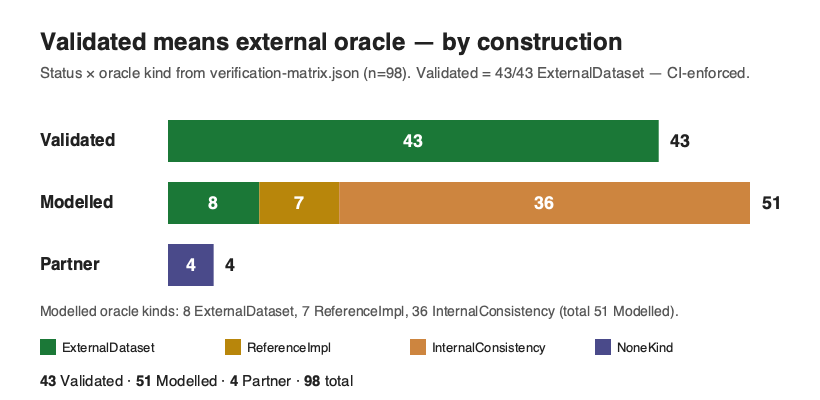
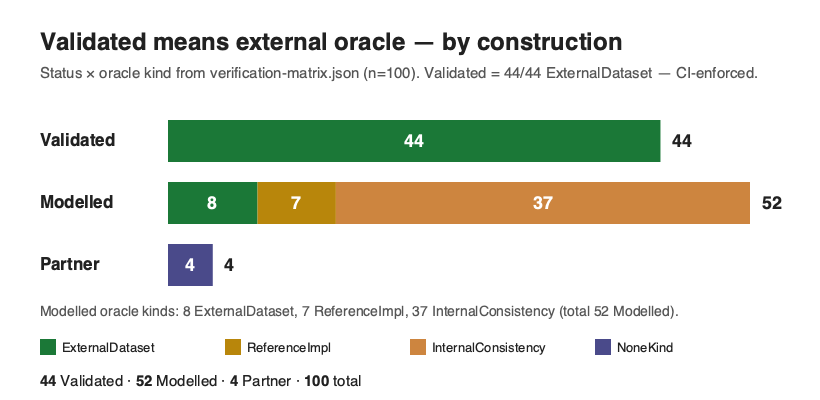
feat(verification): P3 common-mode integrity rows + doc-sync (matrix 44/52/4/100)
Adds the two P3 rows to the verification matrix: 1 Validated (real inter-ephemeris
common-mode error is ARAIM-blind, ExternalDataset) + 1 Modelled (CMPL bound + integrity
envelope, InternalConsistency). Matrix 43/51/4/98 -> 44/52/4/100. Regenerated the ledger
JSON, VERIFICATION-MATRIX.md, MODELLED-RATIONALE.md and both figures; updated all four
README count strings and corrected a stale 'Full 75-row matrix' link label to 100.

diff --git a/src/verification.rs b/src/verification.rs
@@ -834,6 +834,24 @@ pub fn verification_matrix() -> Vec<VerificationItem> {
             oracle_kind: InternalConsistency,
             status: Modelled,
         },
+        VerificationItem {
+            requirement: "Common-mode (frame/ephemeris) integrity: the fault class RAIM/ARAIM is provably blind to",
+            capability: "common_mode_split decomposes a measurement error into the RAIM-invisible part in range(G) (absorbed as a user position+clock error, zero parity residual) and the RAIM-detectable parity residual; on the real DE440/INPOP21a/EPM2021 geocentric-Moon disagreement mapped through a modelled constellation, the ~2.0-2.4 m inter-ephemeris floor is absorbed as user position error with a structurally-zero parity residual — undetectable by any snapshot RAIM/ARAIM monitor",
+            module: "lunar_common_mode",
+            tests: "tests/lunar_common_mode_integrity_reference.rs (blind_dx / blind_fraction / detectable_norm / blind_norm for 732 records = 2 provider pairs x 366 real epochs, reproduced against an independent numpy parity-projection / least-squares computation to rel<1e-3 abs<1e-3; inputs byte-consistent via scripts/gen_common_mode_ref.py reusing the real inter-ephemeris fixtures)",
+            oracle: "Independent numpy least-squares / parity-projection computation cross-checking the engine's split, on the REAL DE440 (JPL) / INPOP21a (IMCCE) / EPM2021 (IAA RAS) inter-ephemeris disagreement (tests/fixtures/inter_ephemeris). Note: the constellation geometry is Modelled; only the linear-algebra reproduction on real-data inputs is externally checked",
+            oracle_kind: ExternalDataset,
+            status: Validated,
+        },
+        VerificationItem {
+            requirement: "Common-mode protection level (CMPL) and total integrity envelope",
+            capability: "cmpl_horizontal bounds the k-sigma horizontal position error from the blind common-mode class (blind_position_covariance = S*Cov*S^T projected into ENU); integrity_envelope reports hpl_total = hpl_araim + cmpl, making explicit that the ARAIM protection level bounds only the parity-detectable fault class and provably does not cover the common-mode class",
+            module: "lunar_common_mode",
+            tests: "lunar_common_mode::tests (a pure range(G) covariance gives a positive CMPL; a parity-space covariance gives ~zero CMPL; envelope sums the two disjoint classes; state_map consistency)",
+            oracle: "Analytic projector algebra; the common-mode covariance, constellation geometry, and k are representative Modelled inputs, not a certified budget",
+            oracle_kind: InternalConsistency,
+            status: Modelled,
+        },
         // ── Resilience scoring & instability study ────────────────────────────
         VerificationItem {
             requirement: "PNT-resilience framework-aligned scoring",

diff --git a/docs/VERIFICATION-MATRIX.md b/docs/VERIFICATION-MATRIX.md
@@ -2,7 +2,7 @@
 
 <!-- Generated by `cargo run --bin gen_validation_artifacts` from src/verification.rs; pinned by tests/verification_artifacts_doc_sync.rs. Do not edit by hand. -->
 
-The complete, machine-checked evidence ledger: **98 rows — 43 VALIDATED, 51 MODELLED, 4 PARTNER**. A row may be VALIDATED only with an independent external oracle (the matrix invariant tests enforce this). The same data, with clickable per-row links to each test, module and committed fixture, is the *Validation ledger* on https://kshana.dev. See [MODELLED-RATIONALE.md](MODELLED-RATIONALE.md) for why each Modelled row is not externally validated.
+The complete, machine-checked evidence ledger: **100 rows — 44 VALIDATED, 52 MODELLED, 4 PARTNER**. A row may be VALIDATED only with an independent external oracle (the matrix invariant tests enforce this). The same data, with clickable per-row links to each test, module and committed fixture, is the *Validation ledger* on https://kshana.dev. See [MODELLED-RATIONALE.md](MODELLED-RATIONALE.md) for why each Modelled row is not externally validated.
 
 | Requirement | Capability | Module | Tests | Oracle | Status |
 |---|---|---|---|---|---|
@@ -86,6 +86,8 @@ The complete, machine-checked evidence ledger: **98 rows — 43 VALIDATED, 51 MO
 | Cross-provider lunar frame/dynamics consistency (real inter-ephemeris) | rotation-only (6-parameter translation+rotation) decomposition of the DE440/INPOP21a/EPM2021 geocentric-Moon disagreement into a reducible common ICRF frame-tie and an irreducible lunar-orbit-orientation excess (the full 7-parameter Helmert fit is a separate public function covered only by an internal analytic-recovery unit test, not by this external check) | lunar_interop_budget | tests/lunar_interop_budget_reference.rs (raw / rotation-residual / theta_moon / theta_frametie / theta_excess / reducible / irreducible for 3 provider pairs vs the independent SciPy SVD lstsq fit in tests/fixtures/inter_ephemeris/reference.json, rel<1e-3 abs<1e-3 m; fixtures + oracle byte-consistent via scripts/gen_interop_ref.py on public DE440/INPOP21a/EPM2021 kernels through IMCCE calceph) | Three independent authoritative ephemerides — DE440 (JPL), INPOP21a (IMCCE), EPM2021 (IAA RAS) — sampled via IMCCE calceph, cross-checked by an independent numpy SVD least-squares fit | VALIDATED |
 | Cross-provider consistency tolerance for a mixed-provider user | consistency_tolerance: inverts a user position budget to a per-parameter inter-provider Helmert agreement requirement (origin/scale/rotation) at a reference lever arm, optionally inflated by the P1 single-provider realization CRLB | lunar_interop_budget | lunar_interop_budget::tests (monotonicity in budget; RSS budget reduction under a per-provider CRLB; worked rotation tolerance at the lunar lever arm; binding-term = rotation) | Worst-case triangle bound on the Helmert point-Jacobian action (closed form) | MODELLED |
 | Multi-provider lunar interoperability error budget and frame-vs-ephemeris design law | interop_budget: reducible (common frame-tie) vs irreducible (dynamics) split under PerProvider / CommonFrameTie / CommonEphemeris conventions, with the irreducible-fraction design-law metric (~0.69 on real DE440/INPOP/EPM: a common frame tag alone leaves the dominant floor) | lunar_interop_budget | lunar_interop_budget::tests (CommonEphemeris zeroes the budget; CommonFrameTie < PerProvider; irreducible_fraction > 0.5 on the real splits; convention ordering) | RMS aggregation of the Validated per-pair splits under each convention (closed form) | MODELLED |
+| Common-mode (frame/ephemeris) integrity: the fault class RAIM/ARAIM is provably blind to | common_mode_split decomposes a measurement error into the RAIM-invisible part in range(G) (absorbed as a user position+clock error, zero parity residual) and the RAIM-detectable parity residual; on the real DE440/INPOP21a/EPM2021 geocentric-Moon disagreement mapped through a modelled constellation, the ~2.0-2.4 m inter-ephemeris floor is absorbed as user position error with a structurally-zero parity residual — undetectable by any snapshot RAIM/ARAIM monitor | lunar_common_mode | tests/lunar_common_mode_integrity_reference.rs (blind_dx / blind_fraction / detectable_norm / blind_norm for 732 records = 2 provider pairs x 366 real epochs, reproduced against an independent numpy parity-projection / least-squares computation to rel<1e-3 abs<1e-3; inputs byte-consistent via scripts/gen_common_mode_ref.py reusing the real inter-ephemeris fixtures) | Independent numpy least-squares / parity-projection computation cross-checking the engine's split, on the REAL DE440 (JPL) / INPOP21a (IMCCE) / EPM2021 (IAA RAS) inter-ephemeris disagreement (tests/fixtures/inter_ephemeris). Note: the constellation geometry is Modelled; only the linear-algebra reproduction on real-data inputs is externally checked | VALIDATED |
+| Common-mode protection level (CMPL) and total integrity envelope | cmpl_horizontal bounds the k-sigma horizontal position error from the blind common-mode class (blind_position_covariance = S*Cov*S^T projected into ENU); integrity_envelope reports hpl_total = hpl_araim + cmpl, making explicit that the ARAIM protection level bounds only the parity-detectable fault class and provably does not cover the common-mode class | lunar_common_mode | lunar_common_mode::tests (a pure range(G) covariance gives a positive CMPL; a parity-space covariance gives ~zero CMPL; envelope sums the two disjoint classes; state_map consistency) | Analytic projector algebra; the common-mode covariance, constellation geometry, and k are representative Modelled inputs, not a certified budget | MODELLED |
 | PNT-resilience framework-aligned scoring | Per-dimension sub-scores over DHS RPCF categories, RethinkPNT RDRR functions and Yang criteria, each tagged Modelled with its driver; tentative RPCF Level with a bounded-degradation gate. Simulation-derived self-assessment, never certification. | resilience::arch, resilience::score, resilience::diversity, resilience::timeline | resilience::score::tests (monotonicity, composite bounds, level cap, modelled-provenance); resilience::diversity::tests (inverse-Simpson, common-mode, SPOF) | Hand-derived per-metric formulas: inverse-Simpson diversity, weighted-mean composite, bounded/unbounded timeline durations, weakest-link Level ladder | MODELLED |
 | Resilience-score decision-instability study | Quantifies how a single composite score / RPCF Level reorders architectures under a defensible weighting simplex and a threat ensemble (top-1 flip rate, Kendall-tau dispersion, Level-flip rate, rank ranges); declared-vs-measured and diversity-collapse analyses. | resilience::stats, resilience::study, resilience::panel | resilience::stats::tests (Kendall-tau hand example, Dirichlet simplex, flip-rate); resilience::study::tests (stability control, instability witness, declared-vs-measured, diversity collapse) | Closed-form rank-statistics identities (tau in [-1,1] with hand-computed values; deterministic seeded Dirichlet) and constructed stable/unstable witnesses | MODELLED |
 | Demonstration representativeness & gaps-to-flight | Per-result honesty ledger qualifying a demonstration output: its external anchors, modelled assumptions, gaps-to-flight and representative TRL band, with invariants enforced (Validated requires an external anchor; Modelled requires a gap and cannot claim above TRL 4). | representativeness | representativeness::tests (validated-needs-external-anchor, modelled-needs-gap, modelled-TRL-ceiling, malformed-band, JSON fields) | Closed-form invariants mapping to the 'representativeness justified + gaps-to-flight identified' compliance discipline; tied to the verification status/oracle-kind boundary | MODELLED |
@@ -105,4 +107,4 @@ The complete, machine-checked evidence ledger: **98 rows — 43 VALIDATED, 51 MO
 | IEEE-1139 power-law clock noise + flicker-FM floor | The five-coefficient IEEE-1139 PSD↔Allan-variance conversion S_y(f)=Σh_α f^α → σ_y²(τ) (white/flicker PM, white/flicker/random-walk FM), the flicker-FM floor σ_y=√(2 ln2·h_{-1}) as a first-class fittable term, and a non-negative FM-family fit in the {(2π²/3)τ, 2 ln2, 1/(2τ)} basis that recovers the floor the drift basis {1/τ,τ,τ³} cannot represent | powerlaw | powerlaw::tests (each pure noise type shows its signature ADEV log-log slope — white FM −½, flicker FM 0, random-walk FM +½, white PM −1; the flicker-FM term is a flat floor equal to √(2 ln2·h_{-1}) across five decades of τ; the FM-family fit round-trips known h_{-2},h_{-1},h_0 from a synthetic curve to <1e-6; and a flicker-dominated curve's floor is recovered here while the drift-basis fit (quantum_trade::qparams_from_adev_curve) is >10% wrong at long τ — closing a documented gap) | Self-consistency of the power-law conversion: the per-noise-type ADEV slopes, the closed-form flicker-FM floor identity, and round-trip coefficient recovery are analytic IEEE-1139/NIST-SP-1065 identities checked against the module's own forward model, plus a contrast against the existing drift-basis fit — internal-consistency checks, NOT an external dataset, so the row stays InternalConsistency. MODELLED stationary power-law model — no deterministic-drift (τ²) term, bias-instability/quantisation refinements, and the PM terms carry the usual bandwidth dependence | MODELLED |
 | CCSDS OEM covariance-block interchange | Serialise and parse the CCSDS 502.0 OEM COVARIANCE_START…COVARIANCE_STOP block — the 6×6 position/velocity covariance written as its 21-element lower triangle (canonical CX_X … CZ_DOT_Z_DOT order) with the optional COV_REF_FRAME, complementing the existing OEM state-vector writer/parser so orbit-determination and filter covariances round-trip in the standard format | oem (covariance_block_kvn, parse_covariance_block) | oem::tests (a symmetric PD covariance round-trips KVN→parse to f64 round-off and stays symmetric; the block emits exactly the 21 lower-triangular entries — i+1 per matrix row — with/without COV_REF_FRAME; a block with the wrong value count and a missing block are both rejected) | Self-consistency of the CCSDS 502.0 covariance serialisation: the serialise→parse round-trip reproduces the matrix to f64 round-off, the lower-triangular ordering carries exactly 21 entries, and malformed blocks are rejected — internal-consistency checks against the module's own writer/reader, NOT an external dataset, so the row stays InternalConsistency. MODELLED format mapping — no cross-validation against a third-party CCSDS OEM covariance fixture | MODELLED |
 
-98 rows: 43 externally validated, 51 modelled, 4 partner-owned.
+100 rows: 44 externally validated, 52 modelled, 4 partner-owned.

diff --git a/docs/MODELLED-RATIONALE.md b/docs/MODELLED-RATIONALE.md
@@ -39,6 +39,7 @@ These capabilities are implemented from published or first-principles physics wi
 | Multi-technique lunar datum information (LLR + lunar VLBI + orbiter range) | Datum-Jacobian rows for Earth–reflector LLR range, two-station lunar-VLBI differential delay, and orbiter-to-beacon range over the 7-parameter datum, combined into one consistently-preconditioned Fisher; demonstrates that off-radial (orbiter / depth-diverse) tracking breaks the origin-X↔scale degeneracy where transverse VLBI helps only indirectly | InternalConsistency | checked against its own closed-form / analytic identity — catches transcription and coefficient errors, but is not an external oracle — Analytic-vs-finite-difference cross-checks of each technique's partials (internal); the improvement DIRECTION is a geometric fact. Beacon locations, schedules, and noise are MODELLED/representative (see tests/fixtures/llr_geometry/NOTICE.md). | lunar_datum, lunar_identifiability | lunar_datum::tests (LLR/VLBI/orbiter analytic partials vs finite difference); lunar_identifiability::tests (adding_an_offradial_technique_collapses_the_origin_scale_degeneracy; transverse-vs-radial via crlb_diag) |
 | Cross-provider consistency tolerance for a mixed-provider user | consistency_tolerance: inverts a user position budget to a per-parameter inter-provider Helmert agreement requirement (origin/scale/rotation) at a reference lever arm, optionally inflated by the P1 single-provider realization CRLB | InternalConsistency | checked against its own closed-form / analytic identity — catches transcription and coefficient errors, but is not an external oracle — Worst-case triangle bound on the Helmert point-Jacobian action (closed form) | lunar_interop_budget | lunar_interop_budget::tests (monotonicity in budget; RSS budget reduction under a per-provider CRLB; worked rotation tolerance at the lunar lever arm; binding-term = rotation) |
 | Multi-provider lunar interoperability error budget and frame-vs-ephemeris design law | interop_budget: reducible (common frame-tie) vs irreducible (dynamics) split under PerProvider / CommonFrameTie / CommonEphemeris conventions, with the irreducible-fraction design-law metric (~0.69 on real DE440/INPOP/EPM: a common frame tag alone leaves the dominant floor) | InternalConsistency | checked against its own closed-form / analytic identity — catches transcription and coefficient errors, but is not an external oracle — RMS aggregation of the Validated per-pair splits under each convention (closed form) | lunar_interop_budget | lunar_interop_budget::tests (CommonEphemeris zeroes the budget; CommonFrameTie < PerProvider; irreducible_fraction > 0.5 on the real splits; convention ordering) |
+| Common-mode protection level (CMPL) and total integrity envelope | cmpl_horizontal bounds the k-sigma horizontal position error from the blind common-mode class (blind_position_covariance = S*Cov*S^T projected into ENU); integrity_envelope reports hpl_total = hpl_araim + cmpl, making explicit that the ARAIM protection level bounds only the parity-detectable fault class and provably does not cover the common-mode class | InternalConsistency | checked against its own closed-form / analytic identity — catches transcription and coefficient errors, but is not an external oracle — Analytic projector algebra; the common-mode covariance, constellation geometry, and k are representative Modelled inputs, not a certified budget | lunar_common_mode | lunar_common_mode::tests (a pure range(G) covariance gives a positive CMPL; a parity-space covariance gives ~zero CMPL; envelope sums the two disjoint classes; state_map consistency) |
 | PNT-resilience framework-aligned scoring | Per-dimension sub-scores over DHS RPCF categories, RethinkPNT RDRR functions and Yang criteria, each tagged Modelled with its driver; tentative RPCF Level with a bounded-degradation gate. Simulation-derived self-assessment, never certification. | InternalConsistency | checked against its own closed-form / analytic identity — catches transcription and coefficient errors, but is not an external oracle — Hand-derived per-metric formulas: inverse-Simpson diversity, weighted-mean composite, bounded/unbounded timeline durations, weakest-link Level ladder | resilience::arch, resilience::score, resilience::diversity, resilience::timeline | resilience::score::tests (monotonicity, composite bounds, level cap, modelled-provenance); resilience::diversity::tests (inverse-Simpson, common-mode, SPOF) |
 | Resilience-score decision-instability study | Quantifies how a single composite score / RPCF Level reorders architectures under a defensible weighting simplex and a threat ensemble (top-1 flip rate, Kendall-tau dispersion, Level-flip rate, rank ranges); declared-vs-measured and diversity-collapse analyses. | InternalConsistency | checked against its own closed-form / analytic identity — catches transcription and coefficient errors, but is not an external oracle — Closed-form rank-statistics identities (tau in [-1,1] with hand-computed values; deterministic seeded Dirichlet) and constructed stable/unstable witnesses | resilience::stats, resilience::study, resilience::panel | resilience::stats::tests (Kendall-tau hand example, Dirichlet simplex, flip-rate); resilience::study::tests (stability control, instability witness, declared-vs-measured, diversity collapse) |
 | Demonstration representativeness & gaps-to-flight | Per-result honesty ledger qualifying a demonstration output: its external anchors, modelled assumptions, gaps-to-flight and representative TRL band, with invariants enforced (Validated requires an external anchor; Modelled requires a gap and cannot claim above TRL 4). | InternalConsistency | checked against its own closed-form / analytic identity — catches transcription and coefficient errors, but is not an external oracle — Closed-form invariants mapping to the 'representativeness justified + gaps-to-flight identified' compliance discipline; tied to the verification status/oracle-kind boundary | representativeness | representativeness::tests (validated-needs-external-anchor, modelled-needs-gap, modelled-TRL-ceiling, malformed-band, JSON fields) |
@@ -58,4 +59,4 @@ These capabilities are implemented from published or first-principles physics wi
 | IEEE-1139 power-law clock noise + flicker-FM floor | The five-coefficient IEEE-1139 PSD↔Allan-variance conversion S_y(f)=Σh_α f^α → σ_y²(τ) (white/flicker PM, white/flicker/random-walk FM), the flicker-FM floor σ_y=√(2 ln2·h_{-1}) as a first-class fittable term, and a non-negative FM-family fit in the {(2π²/3)τ, 2 ln2, 1/(2τ)} basis that recovers the floor the drift basis {1/τ,τ,τ³} cannot represent | InternalConsistency | checked against its own closed-form / analytic identity — catches transcription and coefficient errors, but is not an external oracle — Self-consistency of the power-law conversion: the per-noise-type ADEV slopes, the closed-form flicker-FM floor identity, and round-trip coefficient recovery are analytic IEEE-1139/NIST-SP-1065 identities checked against the module's own forward model, plus a contrast against the existing drift-basis fit — internal-consistency checks, NOT an external dataset, so the row stays InternalConsistency. MODELLED stationary power-law model — no deterministic-drift (τ²) term, bias-instability/quantisation refinements, and the PM terms carry the usual bandwidth dependence | powerlaw | powerlaw::tests (each pure noise type shows its signature ADEV log-log slope — white FM −½, flicker FM 0, random-walk FM +½, white PM −1; the flicker-FM term is a flat floor equal to √(2 ln2·h_{-1}) across five decades of τ; the FM-family fit round-trips known h_{-2},h_{-1},h_0 from a synthetic curve to <1e-6; and a flicker-dominated curve's floor is recovered here while the drift-basis fit (quantum_trade::qparams_from_adev_curve) is >10% wrong at long τ — closing a documented gap) |
 | CCSDS OEM covariance-block interchange | Serialise and parse the CCSDS 502.0 OEM COVARIANCE_START…COVARIANCE_STOP block — the 6×6 position/velocity covariance written as its 21-element lower triangle (canonical CX_X … CZ_DOT_Z_DOT order) with the optional COV_REF_FRAME, complementing the existing OEM state-vector writer/parser so orbit-determination and filter covariances round-trip in the standard format | InternalConsistency | checked against its own closed-form / analytic identity — catches transcription and coefficient errors, but is not an external oracle — Self-consistency of the CCSDS 502.0 covariance serialisation: the serialise→parse round-trip reproduces the matrix to f64 round-off, the lower-triangular ordering carries exactly 21 entries, and malformed blocks are rejected — internal-consistency checks against the module's own writer/reader, NOT an external dataset, so the row stays InternalConsistency. MODELLED format mapping — no cross-validation against a third-party CCSDS OEM covariance fixture | oem (covariance_block_kvn, parse_covariance_block) | oem::tests (a symmetric PD covariance round-trips KVN→parse to f64 round-off and stays symmetric; the block emits exactly the 21 lower-triangular entries — i+1 per matrix row — with/without COV_REF_FRAME; a block with the wrong value count and a missing block are both rejected) |
 
-51 capabilities labelled MODELLED.
+52 capabilities labelled MODELLED.

diff --git a/README.md b/README.md
@@ -14,7 +14,7 @@
 <p align="center">
   <a href="https://ashfordeou.github.io/kshana/"><img src="https://img.shields.io/badge/playground-try%20in%20browser-c79e63" alt="Live playground — run in your browser, no install"></a>
   <a href="tests/sgp4_verification.rs"><img src="https://img.shields.io/badge/SGP4-666%2F666%20AIAA%20vectors%20%C2%B7%204.12mm-3fb950" alt="SGP4 validated against all 666 AIAA 2006-6753 vectors, worst 4.12 mm"></a>
-  <a href="#validation-at-a-glance"><img src="https://img.shields.io/badge/validated-43%20external%20oracles-3fb950" alt="43 capabilities validated against independent external oracles (real data, independent libraries, or published reference vectors); 51 more are honestly labelled MODELLED and 4 are PARTNER-owned — see Validation at a glance"></a>
+  <a href="#validation-at-a-glance"><img src="https://img.shields.io/badge/validated-44%20external%20oracles-3fb950" alt="44 capabilities validated against independent external oracles (real data, independent libraries, or published reference vectors); 52 more are honestly labelled MODELLED and 4 are PARTNER-owned — see Validation at a glance"></a>
   <a href="https://github.com/AshfordeOU/kshana/actions/workflows/ci.yml"><img src="https://img.shields.io/badge/coverage-~96%25%20line-3fb950" alt="~96% line coverage on src/ (cargo-tarpaulin LLVM engine), gated at 85% in CI"></a>
   <a href="https://github.com/AshfordeOU/kshana/actions/workflows/ci.yml"><img src="https://github.com/AshfordeOU/kshana/actions/workflows/ci.yml/badge.svg" alt="CI"></a>
   <a href="https://github.com/AshfordeOU/kshana/releases"><img src="https://img.shields.io/badge/release-v0.23.0-c79e63" alt="Release v0.23.0"></a>
@@ -46,7 +46,7 @@ navigation. Every result is reproducible from `scenario + seed + engine version`
 and every sensor parameter is traceable to a published source — consolidated in one
 citable table in [`docs/PROVENANCE.md`](docs/PROVENANCE.md).
 
-<p align="center"><em><strong>Validated, not asserted.</strong> &nbsp;666/666 AIAA SGP4 vectors to <strong>4.12&nbsp;mm</strong> · Cowell force model <strong>0.08&nbsp;m</strong> vs Orekit&nbsp;12.2 · Galileo <strong>0.61&nbsp;m</strong> / Swarm-A <strong>0.10&nbsp;m</strong> vs real ESA precise ephemerides · GCRS→ITRS bit-for-bit vs SOFA/ERFA · ML metrics exact vs scikit-learn · <strong>43 of 98</strong> capabilities validated against independent external oracles; 51 honestly labelled Modelled.</em></p>
+<p align="center"><em><strong>Validated, not asserted.</strong> &nbsp;666/666 AIAA SGP4 vectors to <strong>4.12&nbsp;mm</strong> · Cowell force model <strong>0.08&nbsp;m</strong> vs Orekit&nbsp;12.2 · Galileo <strong>0.61&nbsp;m</strong> / Swarm-A <strong>0.10&nbsp;m</strong> vs real ESA precise ephemerides · GCRS→ITRS bit-for-bit vs SOFA/ERFA · ML metrics exact vs scikit-learn · <strong>44 of 100</strong> capabilities validated against independent external oracles; 52 honestly labelled Modelled.</em></p>
 
 <p align="center">
   <img src="docs/assets/diagrams/system-overview.png" alt="Kshana system overview: five front doors (CLI, Python wheel, WebAssembly playground, MCP server, JetBrains plugin) converge on a single api::run_toml dispatch over 44 scenario kinds, through the engine (shared core, sensor packs and astrodynamics, integrity/fusion/lunar/deep-space/resilience), to a reproducible result.json + chart.svg" width="840">
@@ -55,7 +55,7 @@ citable table in [`docs/PROVENANCE.md`](docs/PROVENANCE.md).
 
 ### Validated against external oracles — every row CI-gated
 
-Each row is checked against an **independent external oracle** (real dataset, independent reference implementation, or published reference vectors) and re-checked in CI. [Full 75-row matrix →](#validation-at-a-glance)
+Each row is checked against an **independent external oracle** (real dataset, independent reference implementation, or published reference vectors) and re-checked in CI. [Full 100-row matrix →](#validation-at-a-glance)
 
 | | Capability | Result | External oracle |
 |---|---|---|---|
@@ -67,8 +67,8 @@ Each row is checked against an **independent external oracle** (real dataset, in
 | ✅ | GNSS DOP · ML detector metrics | to **1e-6** · to **1e-9** | gnss_lib_py · scikit-learn |
 
 <p align="center">
-  <img src="docs/assets/figures/validation-breakdown.png" alt="Verification status across all 98 capabilities: 43 Validated (checked vs external oracle), 51 Modelled, 4 Partner-owned" width="780">
-  <br><sub>43 Validated · 51 Modelled · 4 Partner — <a href="docs/assets/figures/validation-breakdown.svg">SVG</a></sub>
+  <img src="docs/assets/figures/validation-breakdown.png" alt="Verification status across all 100 capabilities: 44 Validated (checked vs external oracle), 52 Modelled, 4 Partner-owned" width="780">
+  <br><sub>44 Validated · 52 Modelled · 4 Partner — <a href="docs/assets/figures/validation-breakdown.svg">SVG</a></sub>
 </p>
 
 *Free and open source under the GNU AGPL-3.0 — with a commercial licence available
@@ -1005,19 +1005,19 @@ kshana/
 ### Validation at a glance
 
 <p align="center">
-  <img src="docs/assets/diagrams/validation-provenance.png" alt="How a capability earns its label: Requirement maps to a module in src, to a test in tests, to an external oracle (real dataset, independent reference implementation, or published vectors), to a status — with a CI-enforced guard that no capability can be Validated without an external oracle. Live counts: 43 Validated, 51 Modelled, 4 Partner, 98 total" width="900">
+  <img src="docs/assets/diagrams/validation-provenance.png" alt="How a capability earns its label: Requirement maps to a module in src, to a test in tests, to an external oracle (real dataset, independent reference implementation, or published vectors), to a status — with a CI-enforced guard that no capability can be Validated without an external oracle. Live counts: 44 Validated, 52 Modelled, 4 Partner, 100 total" width="900">
   <br><sub>How a capability earns its label — the CI-enforced invariant: no external oracle ⇒ cannot be Validated · <a href="docs/assets/diagrams/validation-provenance.svg">SVG</a></sub>
 </p>
 
 <p align="center">
-  <img src="docs/assets/figures/oracle-kind-stacked.png" alt="How each claim is backed: the Validated column is 43 of 43 ExternalDataset by construction (CI-enforced); Modelled rows are honestly tagged InternalConsistency, ReferenceImpl, or ExternalDataset; Partner rows have no Kshana oracle" width="62%">
+  <img src="docs/assets/figures/oracle-kind-stacked.png" alt="How each claim is backed: the Validated column is 44 of 44 ExternalDataset by construction (CI-enforced); Modelled rows are honestly tagged InternalConsistency, ReferenceImpl, or ExternalDataset; Partner rows have no Kshana oracle" width="62%">
   <br>
   <img src="docs/assets/figures/sgp4-regime-bars.png" alt="SGP4/SDP4 worst-case position error vs the AIAA 2006-6753 reference by regime, log scale: every regime is far below the AIAA tolerance, worst case 4.12 mm in the deep-space non-resonant regime" width="96%">
   <br><sub>Top: every Validated row is backed by an external dataset, by construction. Bottom: SGP4 matches the official reference in every regime (worst 4.12 mm). <a href="docs/assets/figures/oracle-kind-stacked.svg">SVG</a> · <a href="docs/assets/figures/sgp4-regime-bars.svg">SVG</a></sub>
 </p>
 
 Every row is enforced by a named test in CI. This table is a **curated highlight**;
-the full machine-checked matrix is **98 rows — 43 VALIDATED, 51 MODELLED, 4 PARTNER**
+the full machine-checked matrix is **100 rows — 44 VALIDATED, 52 MODELLED, 4 PARTNER**
 (`src/verification.rs`), with the complete evidence (and what is honestly *not* yet
 validated) in [`docs/VALIDATION.md`](docs/VALIDATION.md) and the per-release
 [`kshana-validation-summary.html`](https://github.com/AshfordeOU/kshana/releases)

diff --git a/README.crates.md b/README.crates.md
@@ -14,7 +14,7 @@
 
 <p align="center">
   <a href="https://github.com/AshfordeOU/kshana/blob/main/tests/sgp4_verification.rs"><img src="https://img.shields.io/badge/SGP4-666%2F666%20AIAA%20vectors%20%C2%B7%204.12mm-3fb950" alt="SGP4 validated against all 666 AIAA 2006-6753 vectors, worst 4.12 mm"></a>
-  <a href="https://github.com/AshfordeOU/kshana#validation-at-a-glance"><img src="https://img.shields.io/badge/validated-43%20external%20oracles-3fb950" alt="43 of 98 capabilities validated against independent external oracles"></a>
+  <a href="https://github.com/AshfordeOU/kshana#validation-at-a-glance"><img src="https://img.shields.io/badge/validated-44%20external%20oracles-3fb950" alt="44 of 100 capabilities validated against independent external oracles"></a>
   <a href="https://github.com/AshfordeOU/kshana/actions/workflows/ci.yml"><img src="https://img.shields.io/badge/coverage-~96%25%20line-3fb950" alt="~96% line coverage, gated at 85% in CI"></a>
   <a href="https://github.com/AshfordeOU/kshana/releases"><img src="https://img.shields.io/badge/release-v0.23.0-c79e63" alt="Release v0.23.0"></a>
   <a href="https://ashforde.org"><img src="https://img.shields.io/badge/playground-try%20in%20browser-c79e63" alt="Live playground — run in your browser, no install"></a>
@@ -33,8 +33,8 @@ traceable to a published source.
 > ***Validated, not asserted.*** 666/666 AIAA SGP4 vectors to **4.12 mm** · Cowell
 > force model **0.08 m** vs Orekit 12.2 · Galileo **0.61 m** / Swarm-A **0.10 m** vs
 > real ESA precise ephemerides · GCRS→ITRS bit-for-bit vs SOFA/ERFA · ML metrics exact
-> vs scikit-learn · **43 of 98** capabilities validated against independent external
-> oracles; 51 honestly labelled Modelled, 4 partner-owned.
+> vs scikit-learn · **44 of 100** capabilities validated against independent external
+> oracles; 52 honestly labelled Modelled, 4 partner-owned.
 
 <p align="center">
   <img src="https://raw.githubusercontent.com/AshfordeOU/kshana/main/docs/assets/diagrams/system-overview.png" alt="Kshana system overview: five front doors (CLI, Python wheel, WebAssembly playground, MCP server, JetBrains plugin) converge on a single api::run_toml dispatch, through the engine, to a reproducible result.json + chart.svg" width="840">
@@ -55,7 +55,7 @@ independent reference implementation, or published reference vectors) and re-che
 | ✅ | GNSS DOP · ML detector metrics | to **1e-6** · to **1e-9** | gnss_lib_py · scikit-learn |
 
 <p align="center">
-  <img src="https://raw.githubusercontent.com/AshfordeOU/kshana/main/docs/assets/figures/validation-breakdown.png" alt="Verification status across all 98 capabilities: 43 Validated, 51 Modelled, 4 Partner-owned" width="780">
+  <img src="https://raw.githubusercontent.com/AshfordeOU/kshana/main/docs/assets/figures/validation-breakdown.png" alt="Verification status across all 100 capabilities: 44 Validated, 52 Modelled, 4 Partner-owned" width="780">
 </p>
 
 ## Install

diff --git a/README.pypi.md b/README.pypi.md
@@ -14,7 +14,7 @@
 
 <p align="center">
   <a href="https://github.com/AshfordeOU/kshana/blob/main/tests/sgp4_verification.rs"><img src="https://img.shields.io/badge/SGP4-666%2F666%20AIAA%20vectors%20%C2%B7%204.12mm-3fb950" alt="SGP4 validated against all 666 AIAA 2006-6753 vectors, worst 4.12 mm"></a>
-  <a href="https://github.com/AshfordeOU/kshana#validation-at-a-glance"><img src="https://img.shields.io/badge/validated-43%20external%20oracles-3fb950" alt="43 of 98 capabilities validated against independent external oracles"></a>
+  <a href="https://github.com/AshfordeOU/kshana#validation-at-a-glance"><img src="https://img.shields.io/badge/validated-44%20external%20oracles-3fb950" alt="44 of 100 capabilities validated against independent external oracles"></a>
   <a href="https://github.com/AshfordeOU/kshana/actions/workflows/ci.yml"><img src="https://img.shields.io/badge/coverage-~96%25%20line-3fb950" alt="~96% line coverage, gated at 85% in CI"></a>
   <a href="https://github.com/AshfordeOU/kshana/releases"><img src="https://img.shields.io/badge/release-v0.23.0-c79e63" alt="Release v0.23.0"></a>
   <a href="https://ashforde.org"><img src="https://img.shields.io/badge/playground-try%20in%20browser-c79e63" alt="Live playground — run in your browser, no install"></a>
@@ -34,8 +34,8 @@ published source.
 > ***Validated, not asserted.*** 666/666 AIAA SGP4 vectors to **4.12 mm** · Cowell
 > force model **0.08 m** vs Orekit 12.2 · Galileo **0.61 m** / Swarm-A **0.10 m** vs
 > real ESA precise ephemerides · GCRS→ITRS bit-for-bit vs SOFA/ERFA · ML metrics exact
-> vs scikit-learn · **43 of 98** capabilities validated against independent external
-> oracles; 51 honestly labelled Modelled, 4 partner-owned.
+> vs scikit-learn · **44 of 100** capabilities validated against independent external
+> oracles; 52 honestly labelled Modelled, 4 partner-owned.
 
 <p align="center">
   <img src="https://raw.githubusercontent.com/AshfordeOU/kshana/main/docs/assets/diagrams/system-overview.png" alt="Kshana system overview: five front doors (CLI, Python wheel, WebAssembly playground, MCP server, JetBrains plugin) converge on a single api::run_toml dispatch, through the engine, to a reproducible result.json + chart.svg" width="840">
@@ -56,7 +56,7 @@ independent reference implementation, or published reference vectors) and re-che
 | ✅ | GNSS DOP · ML detector metrics | to **1e-6** · to **1e-9** | gnss_lib_py · scikit-learn |
 
 <p align="center">
-  <img src="https://raw.githubusercontent.com/AshfordeOU/kshana/main/docs/assets/figures/validation-breakdown.png" alt="Verification status across all 98 capabilities: 43 Validated, 51 Modelled, 4 Partner-owned" width="780">
+  <img src="https://raw.githubusercontent.com/AshfordeOU/kshana/main/docs/assets/figures/validation-breakdown.png" alt="Verification status across all 100 capabilities: 44 Validated, 52 Modelled, 4 Partner-owned" width="780">
 </p>
 
 ## Install

diff --git a/README.npm.md b/README.npm.md
@@ -15,7 +15,7 @@
 
 <p align="center">
   <a href="https://github.com/AshfordeOU/kshana/blob/main/tests/sgp4_verification.rs"><img src="https://img.shields.io/badge/SGP4-666%2F666%20AIAA%20vectors%20%C2%B7%204.12mm-3fb950" alt="SGP4 validated against all 666 AIAA 2006-6753 vectors, worst 4.12 mm"></a>
-  <a href="https://github.com/AshfordeOU/kshana#validation-at-a-glance"><img src="https://img.shields.io/badge/validated-43%20external%20oracles-3fb950" alt="43 of 98 capabilities validated against independent external oracles"></a>
+  <a href="https://github.com/AshfordeOU/kshana#validation-at-a-glance"><img src="https://img.shields.io/badge/validated-44%20external%20oracles-3fb950" alt="44 of 100 capabilities validated against independent external oracles"></a>
   <a href="https://github.com/AshfordeOU/kshana/releases"><img src="https://img.shields.io/badge/release-v0.23.0-c79e63" alt="Release v0.23.0"></a>
   <a href="https://ashforde.org"><img src="https://img.shields.io/badge/playground-try%20in%20browser-c79e63" alt="Live playground — run in your browser, no install"></a>
   <a href="https://github.com/AshfordeOU/kshana/blob/main/LICENSE"><img src="https://img.shields.io/badge/License-AGPL_v3-blue.svg" alt="License: AGPL-3.0-only"></a>
@@ -32,8 +32,8 @@ parameter is traceable to a published source.
 > ***Validated, not asserted.*** 666/666 AIAA SGP4 vectors to **4.12 mm** · Cowell
 > force model **0.08 m** vs Orekit 12.2 · Galileo **0.61 m** / Swarm-A **0.10 m** vs
 > real ESA precise ephemerides · GCRS→ITRS bit-for-bit vs SOFA/ERFA · ML metrics exact
-> vs scikit-learn · **43 of 98** capabilities validated against independent external
-> oracles; 51 honestly labelled Modelled, 4 partner-owned.
+> vs scikit-learn · **44 of 100** capabilities validated against independent external
+> oracles; 52 honestly labelled Modelled, 4 partner-owned.
 
 <p align="center">
   <img src="https://raw.githubusercontent.com/AshfordeOU/kshana/main/docs/assets/diagrams/system-overview.png" alt="Kshana system overview: five front doors (CLI, Python wheel, WebAssembly playground, MCP server, JetBrains plugin) converge on a single api::run_toml dispatch, through the engine, to a reproducible result.json + chart.svg" width="840">
@@ -51,7 +51,7 @@ parameter is traceable to a published source.
 | ✅ | GNSS DOP · ML detector metrics | to **1e-6** · to **1e-9** | gnss_lib_py · scikit-learn |
 
 <p align="center">
-  <img src="https://raw.githubusercontent.com/AshfordeOU/kshana/main/docs/assets/figures/validation-breakdown.png" alt="Verification status across all 98 capabilities: 43 Validated, 51 Modelled, 4 Partner-owned" width="780">
+  <img src="https://raw.githubusercontent.com/AshfordeOU/kshana/main/docs/assets/figures/validation-breakdown.png" alt="Verification status across all 100 capabilities: 44 Validated, 52 Modelled, 4 Partner-owned" width="780">
 </p>
 
 ## Install
